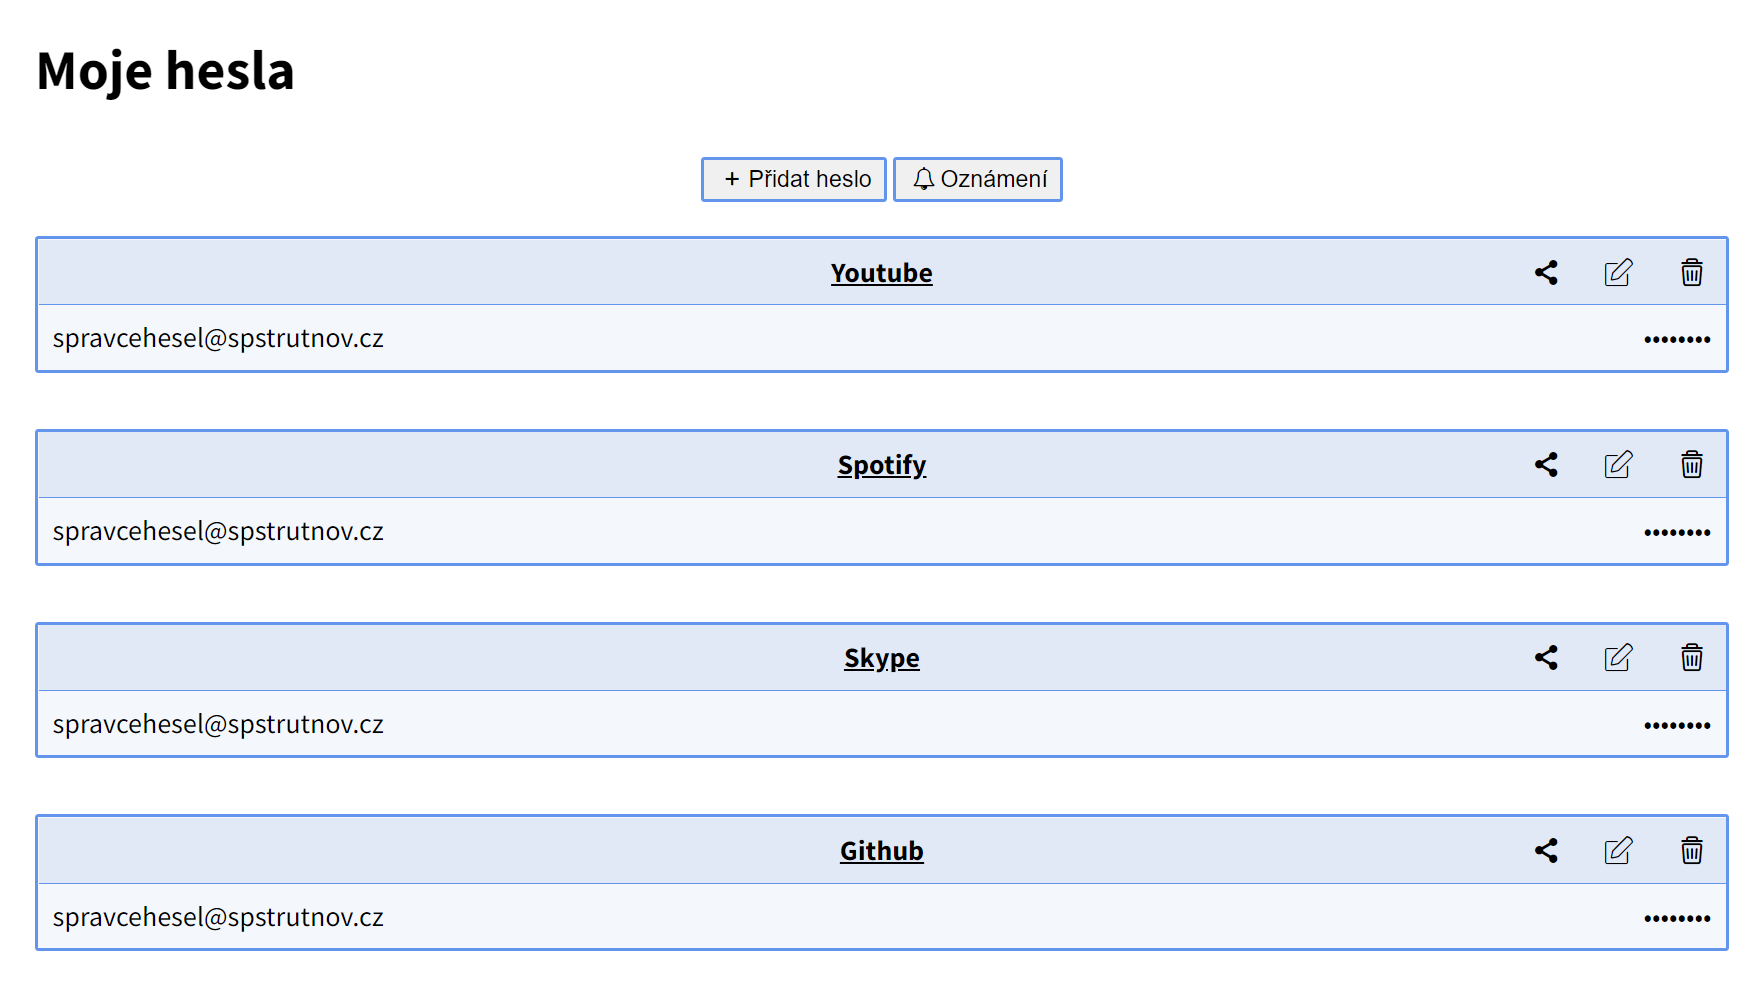
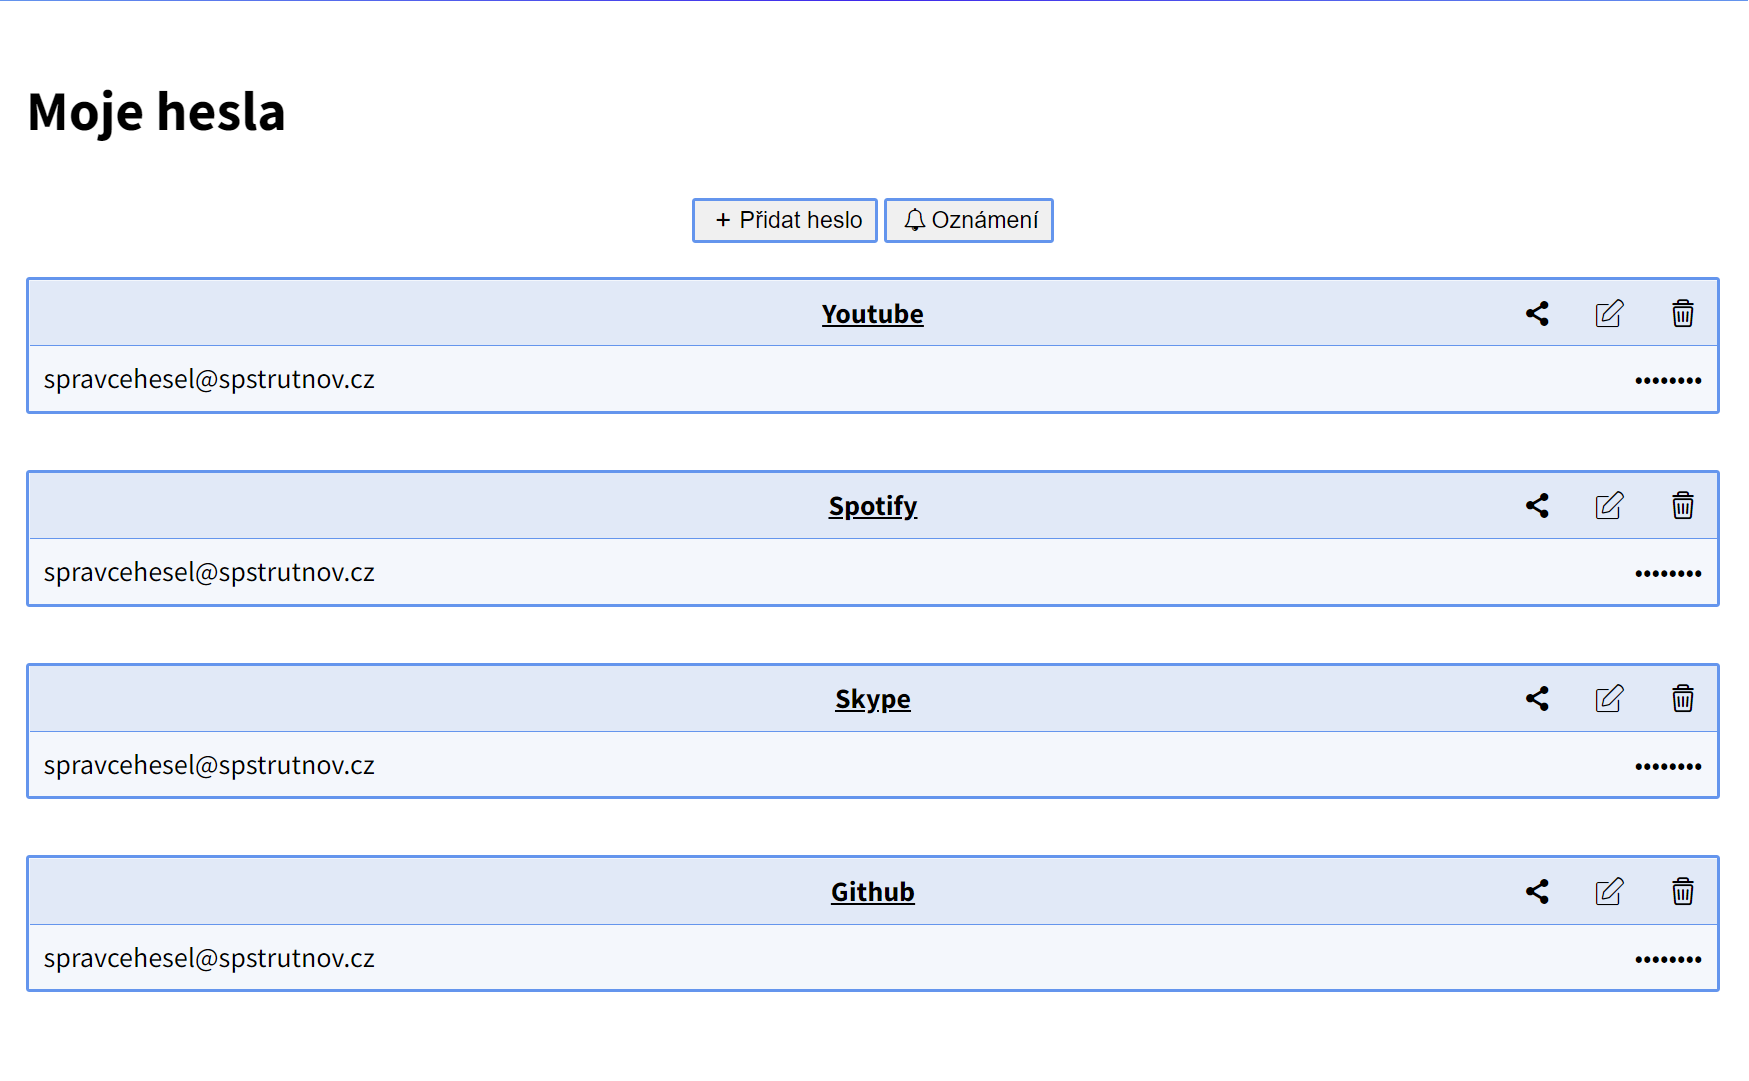
Úprava hlavní stránky pro mobilní zobrazení

diff --git a/src/Spravce hesel/wwwroot/css/styleTmavy.scss b/src/Spravce hesel/wwwroot/css/styleTmavy.scss
@@ -15,32 +15,39 @@ $zesednuti: #00000077;
     // Pozadí
     background-color: $pozadi;
     color: $text;
+
     // Odkaz
     a {
         color: $text;
     }
+
     // Výběr
     .loginVyber a.vybran {
         color: $text-sekundarni;
     }
+
     // Header
     header {
         border-image: linear-gradient(to right, $sdilene-heslo, $text-sekundarni, $sdilene-heslo) 1;
     }
+
     // Logo
     span.nav-vlevo .icon-key:before {
         color: $text-sekundarni;
     }
+
     // Footer
     footer {
         border-image: linear-gradient(to right, $sdilene-heslo, $text-sekundarni, $sdilene-heslo) 1;
     }
+
     // Tlačítko
     button {
         background-color: $pozadi-sekundarni;
         color: $text;
         border-color: $text-sekundarni;
     }
+
     // Form
     form {
         input {
@@ -58,6 +65,7 @@ $zesednuti: #00000077;
             background-color: $text-sekundarni;
         }
     }
+
     // Podmenu
     div.item {
         div.submenu {
@@ -71,10 +79,12 @@ $zesednuti: #00000077;
             }
         }
     }
+
     // Chyba
     .chyba {
         color: $text-sekundarni;
     }
+
     // Heslo
     .zobrazeniHeslo {
         border-color: $text-sekundarni;
@@ -85,6 +95,7 @@ $zesednuti: #00000077;
             background-color: $pozadi-heslo;
         }
     }
+
     // Sdílené heslo
     .zobrazeniHeslo.sdileneheslo {
         background-color: $pozadi-sdilene-heslo;
@@ -95,6 +106,7 @@ $zesednuti: #00000077;
             background-color: $pozadi-sdilene-heslo;
         }
     }
+
     // Detail o sdíleném heslu
     #detaily > div.sdileneheslo {
         background-color: $pozadi-sdilene-heslo !important;
@@ -104,6 +116,7 @@ $zesednuti: #00000077;
             border-bottom-color: $sdilene-heslo !important;
         }
     }
+
     // POP-up
     #container div.POPup {
         > div {
@@ -115,17 +128,20 @@ $zesednuti: #00000077;
             border-bottom-color: $text-sekundarni;
         }
     }
+
     // Oznámení
     #container div.POPup#oznameni {
         .oznameni {
             border-bottom-color: $text-sekundarni;
         }
     }
+
     // Upozornění na Cookies
     .upozorneniCookies {
         background-color: $pozadi-heslo;
         border-color: $text-sekundarni;
     }
+
     // Načítání
     #nacitani div {
         border-color: $text-sekundarni;
@@ -141,4 +157,12 @@ $zesednuti: #00000077;
             border-right-color: $upozorneni;
         }
     }
+
+    // Přehled o funkcích aplikace
+    #prehled {
+        img {
+            border-color: $text-sekundarni;
+        }
+    }
 }
+

diff --git a/src/Spravce hesel/wwwroot/css/style.css b/src/Spravce hesel/wwwroot/css/style.css
@@ -93,6 +93,9 @@
 .tmavy .upozorneni .ikona {
   border-right-color: #f1ab58;
 }
+.tmavy #prehled img {
+  border-color: lightblue;
+}
 
 header {
   text-align: center;
@@ -192,6 +195,21 @@ header nav div.item:hover div.submenu {
   }
   .upozorneni {
     grid-template-columns: 12% 88% !important;
+  }
+  #prehled {
+    display: initial !important;
+  }
+  #prehled div {
+    display: flex;
+    justify-content: center;
+    align-content: center;
+    flex-wrap: wrap;
+    padding: 0.5em;
+  }
+  #prehled img {
+    width: calc(100% - 1em);
+    aspect-ratio: auto;
+    padding: 0.5em;
   }
 }
 @media screen and (max-width: 1000px) {

diff --git a/src/Spravce hesel/wwwroot/css/styleMobil.scss b/src/Spravce hesel/wwwroot/css/styleMobil.scss
@@ -26,6 +26,25 @@
     .upozorneni {
         grid-template-columns: 12% 88% !important;
     }
+
+    // Přehled o funkcích aplikace
+    #prehled {
+        display: initial !important;
+
+        div {
+            display: flex;
+            justify-content: center;
+            align-content: center;
+            flex-wrap: wrap;
+            padding: .5em;
+        }
+
+        img {
+            width: calc(100% - 1em);
+            aspect-ratio: auto;
+            padding: .5em;
+        }
+    }
 }
 
 @media screen and (max-width: 1000px) {

diff --git a/src/Spravce hesel/wwwroot/css/style.scss b/src/Spravce hesel/wwwroot/css/style.scss
@@ -489,6 +489,6 @@ footer {
         width: calc(100% - 1em);
         aspect-ratio: auto;
         padding: .5em;
-        @include border($text-sekundarni);
+        @include border;
     }
 }
